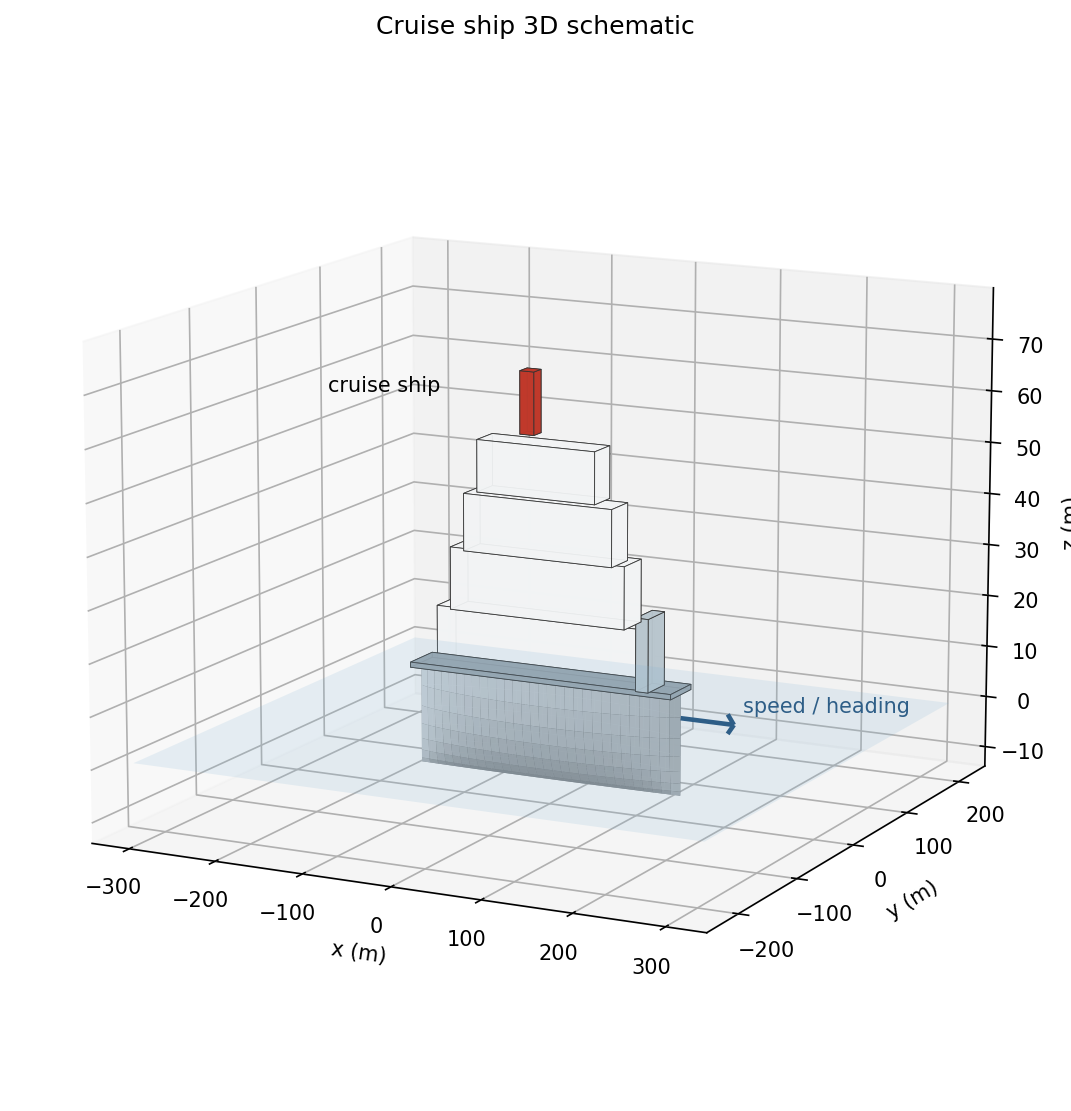
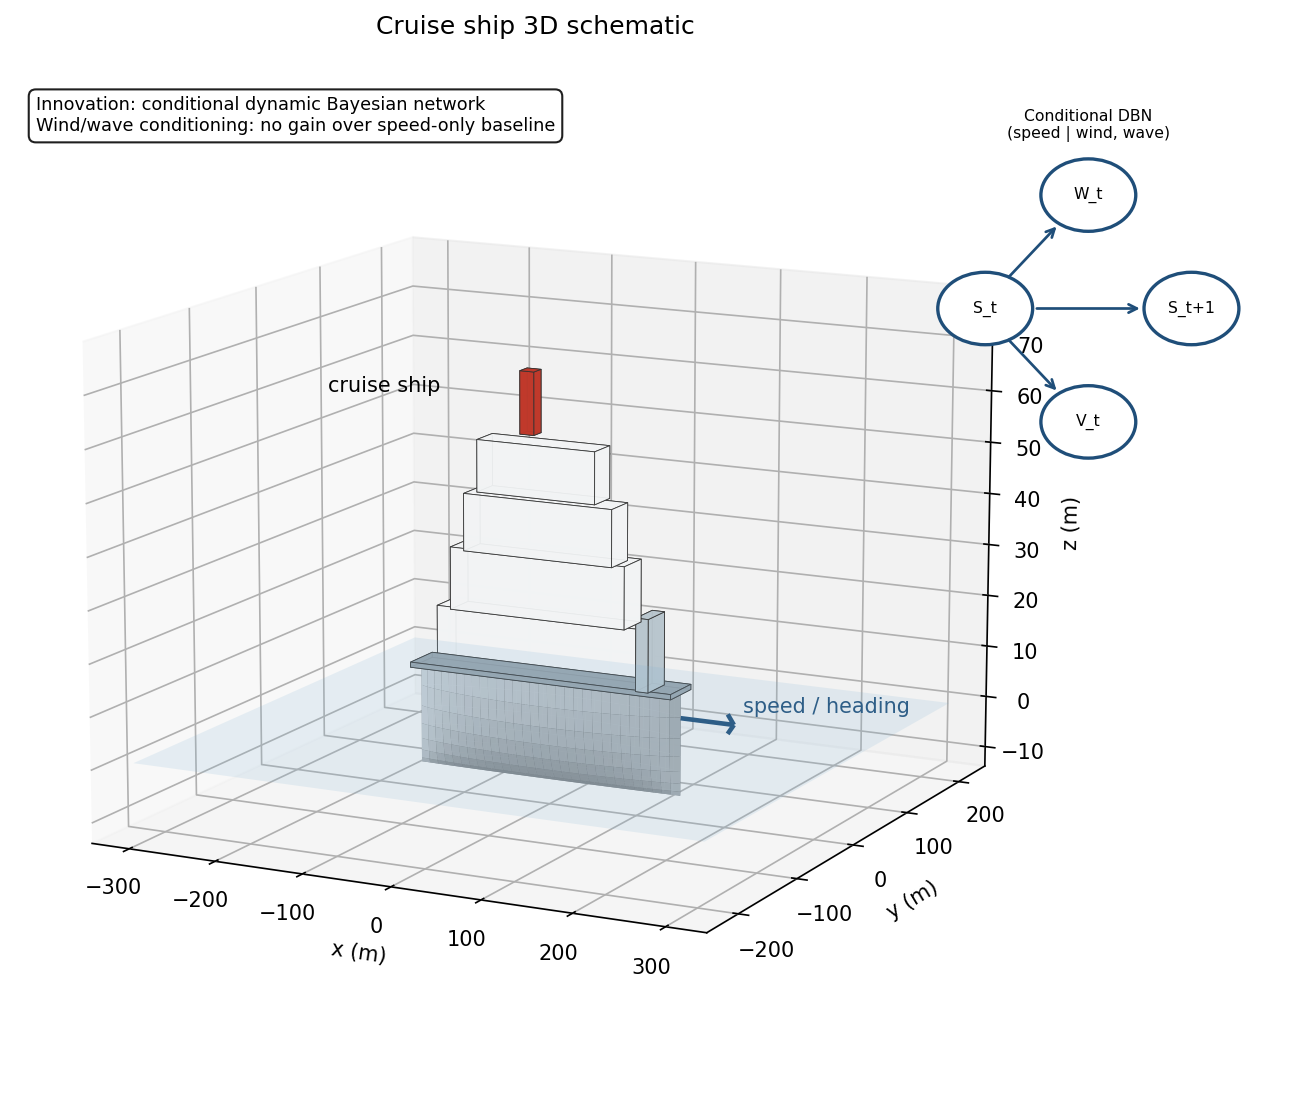
Innovation annotations on 3D figures

diff --git a/figures/make_3d_schematic.py b/figures/make_3d_schematic.py
@@ -88,5 +88,19 @@ ax.text(215, 8, 8, 'speed / heading', fontsize=10, color='#1f4e79')
 ax.text(-140, -70, D+55, 'cruise ship', fontsize=10, ha='center')
 ax.set_zlim(-12, 78)
 ax.set_xlim(-330, 330)
+import matplotlib.patches as mpatches
+_inset = fig.add_axes([0.71, 0.58, 0.25, 0.28])
+_inset.set_xlim(0, 10); _inset.set_ylim(0, 10); _inset.axis('off')
+def _node(x, y, label):
+    _inset.add_patch(mpatches.Circle((x, y), 1.15, fc='white', ec='#1f4e79', lw=1.6))
+    _inset.text(x, y, label, ha='center', va='center', fontsize=7.5)
+_node(2.5, 5, 'S_t'); _node(7.5, 5, 'S_t+1'); _node(5, 8.6, 'W_t'); _node(5, 1.4, 'V_t')
+for _x0, _y0, _x1, _y1 in [(3.65, 5, 6.35, 5), (3.0, 5.9, 4.3, 7.7), (3.0, 4.1, 4.3, 2.3)]:
+    _inset.annotate('', xy=(_x1, _y1), xytext=(_x0, _y0),
+                    arrowprops=dict(arrowstyle='->', color='#1f4e79', lw=1.3))
+_inset.set_title('Conditional DBN\n(speed | wind, wave)', fontsize=7.5)
+ax.text2D(0.02, 0.96, 'Innovation: conditional dynamic Bayesian network\nWind/wave conditioning: no gain over speed-only baseline',
+    transform=ax.transAxes, fontsize=8.5, va='top', ha='left',
+    bbox=dict(boxstyle='round,pad=0.4', facecolor='white', alpha=0.88))
 finish(ax, str(Path(__file__).parent / 'fig2_cruise_3d.png'),
        'Cruise ship 3D schematic', elev=13, azim=-63)

diff --git a/README.md b/README.md
@@ -40,7 +40,3 @@ Regenerate with `python figures/make_figures.py` (needs `matplotlib`, `pandas`, 
 ![Cruise ship 3D schematic](figures/fig2_cruise_3d.png)
 
 Schematic illustration rendered in Python (matplotlib) - not ANSYS/Fluent/STAR-CCM+ output. Regenerate with `python figures/make_3d_schematic.py` (needs `matplotlib`, `numpy`). The cruise-ship hull and superstructure illustrate the vessel class whose speed states this project predicts from AIS data.
-
-![Innovation: conditional DBN - wind/wave conditioning does not beat the speed-only baseline (identifiability diagnosis).](figures/fig3_brier_models.png)
-
-*Innovation: conditional DBN - wind/wave conditioning does not beat the speed-only baseline (identifiability diagnosis). Regenerate with `python figures/make_innovation_figure.py`.*
